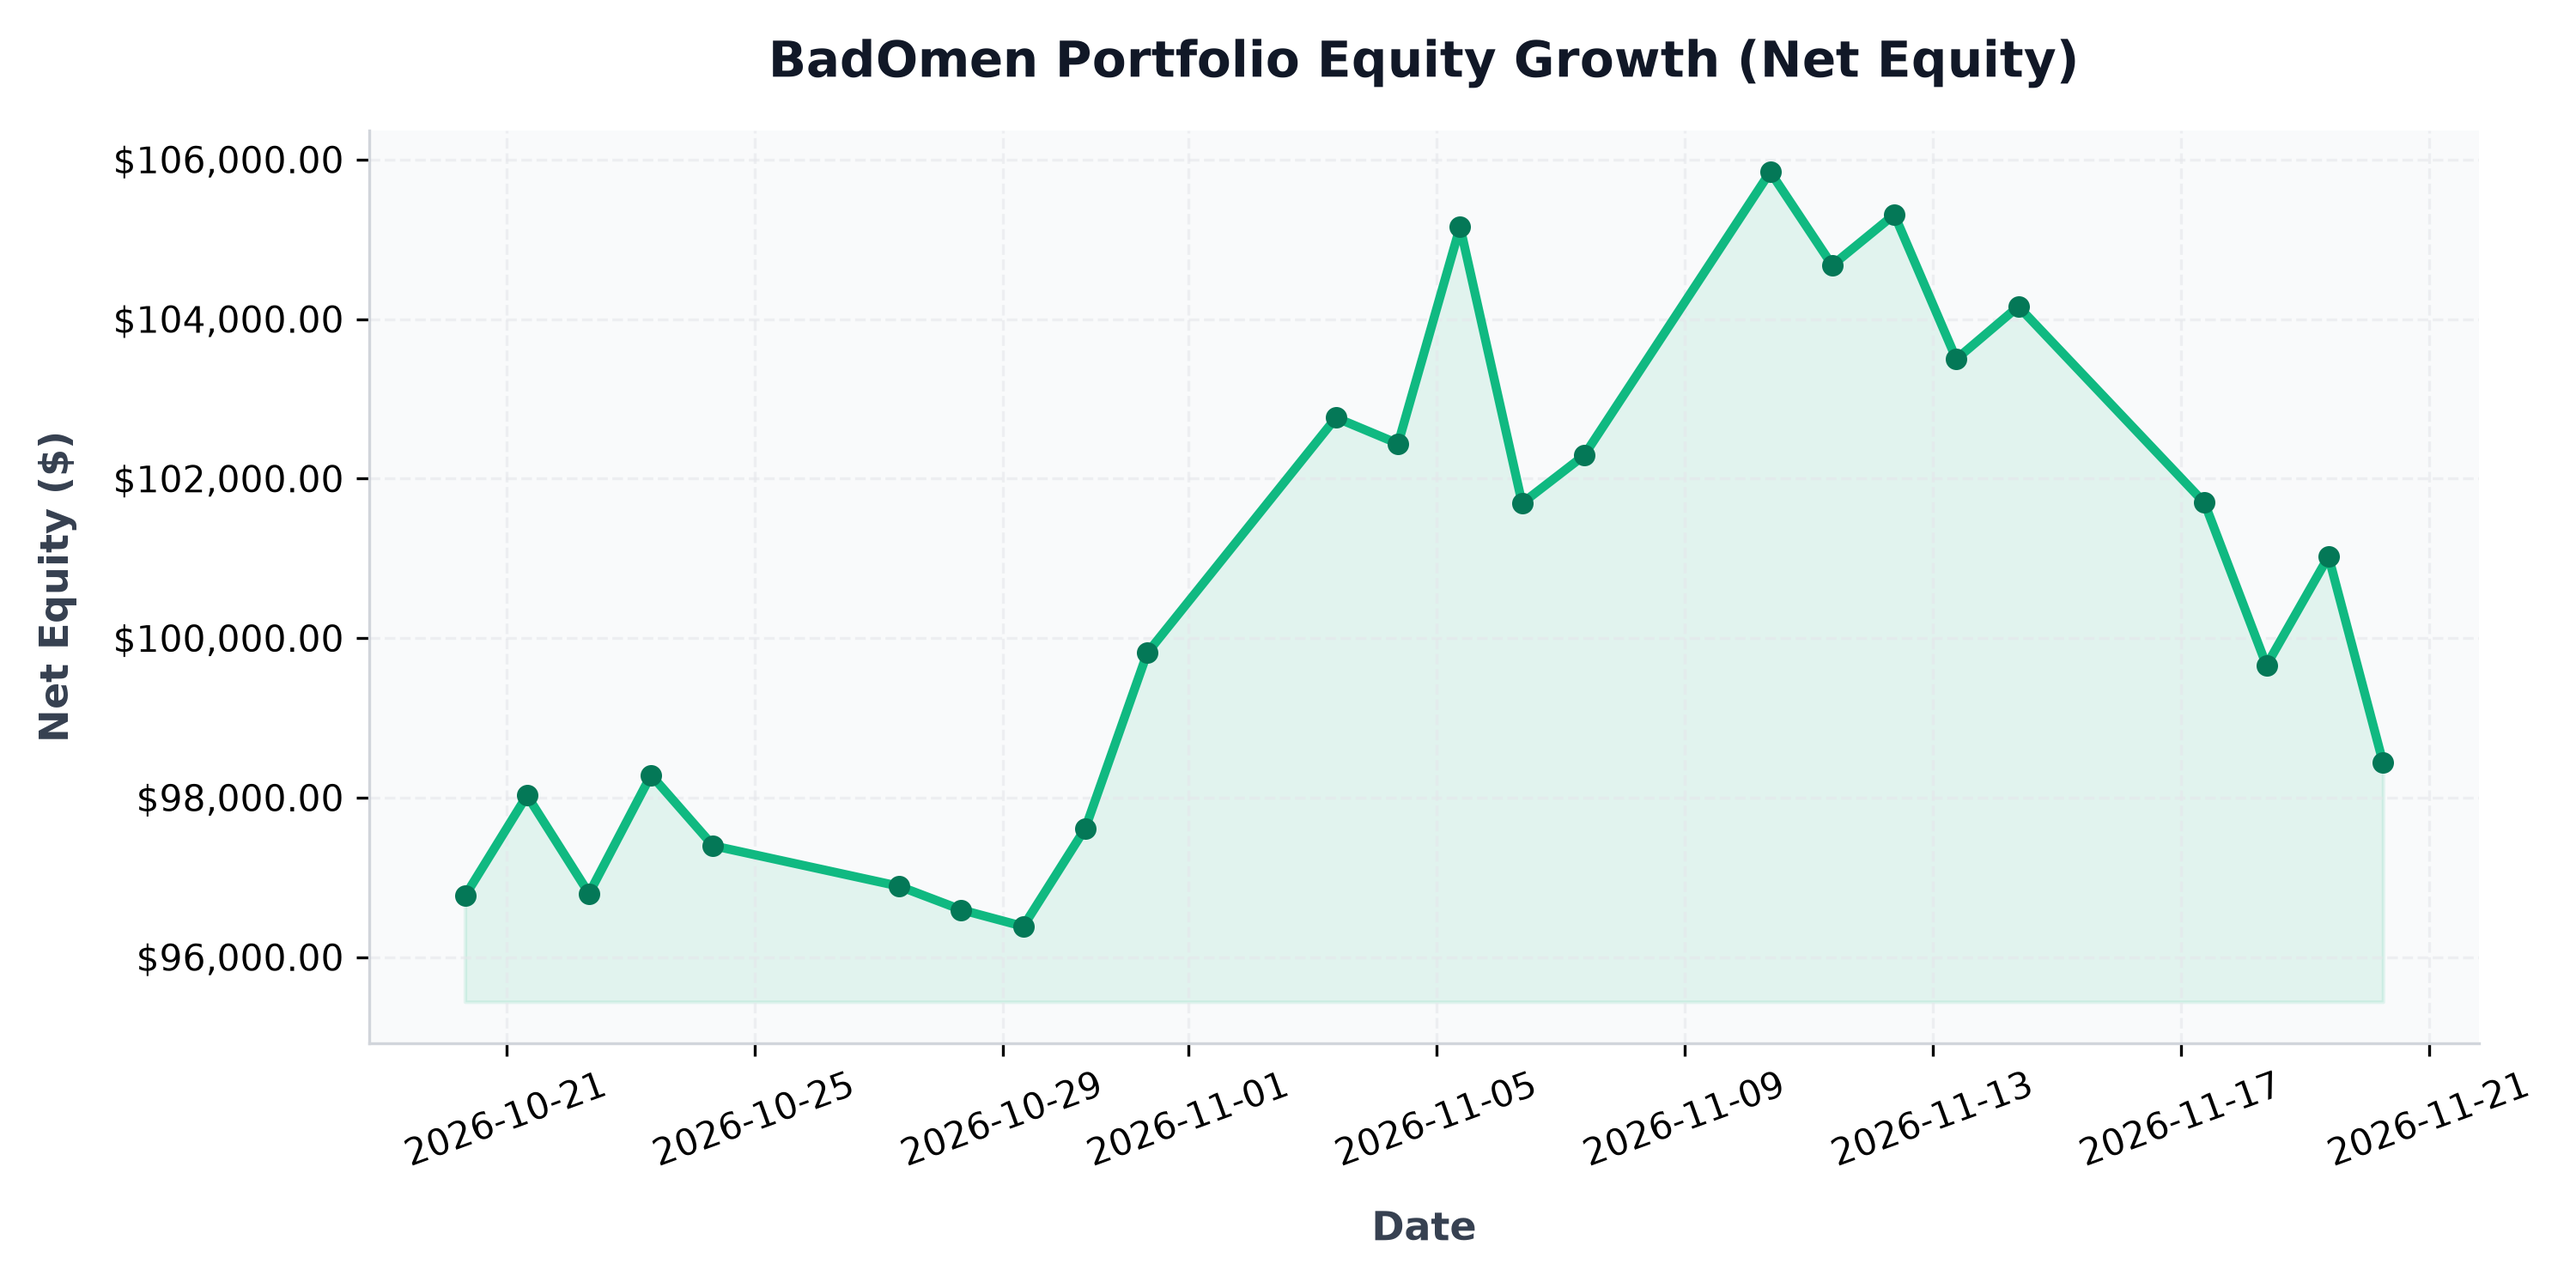
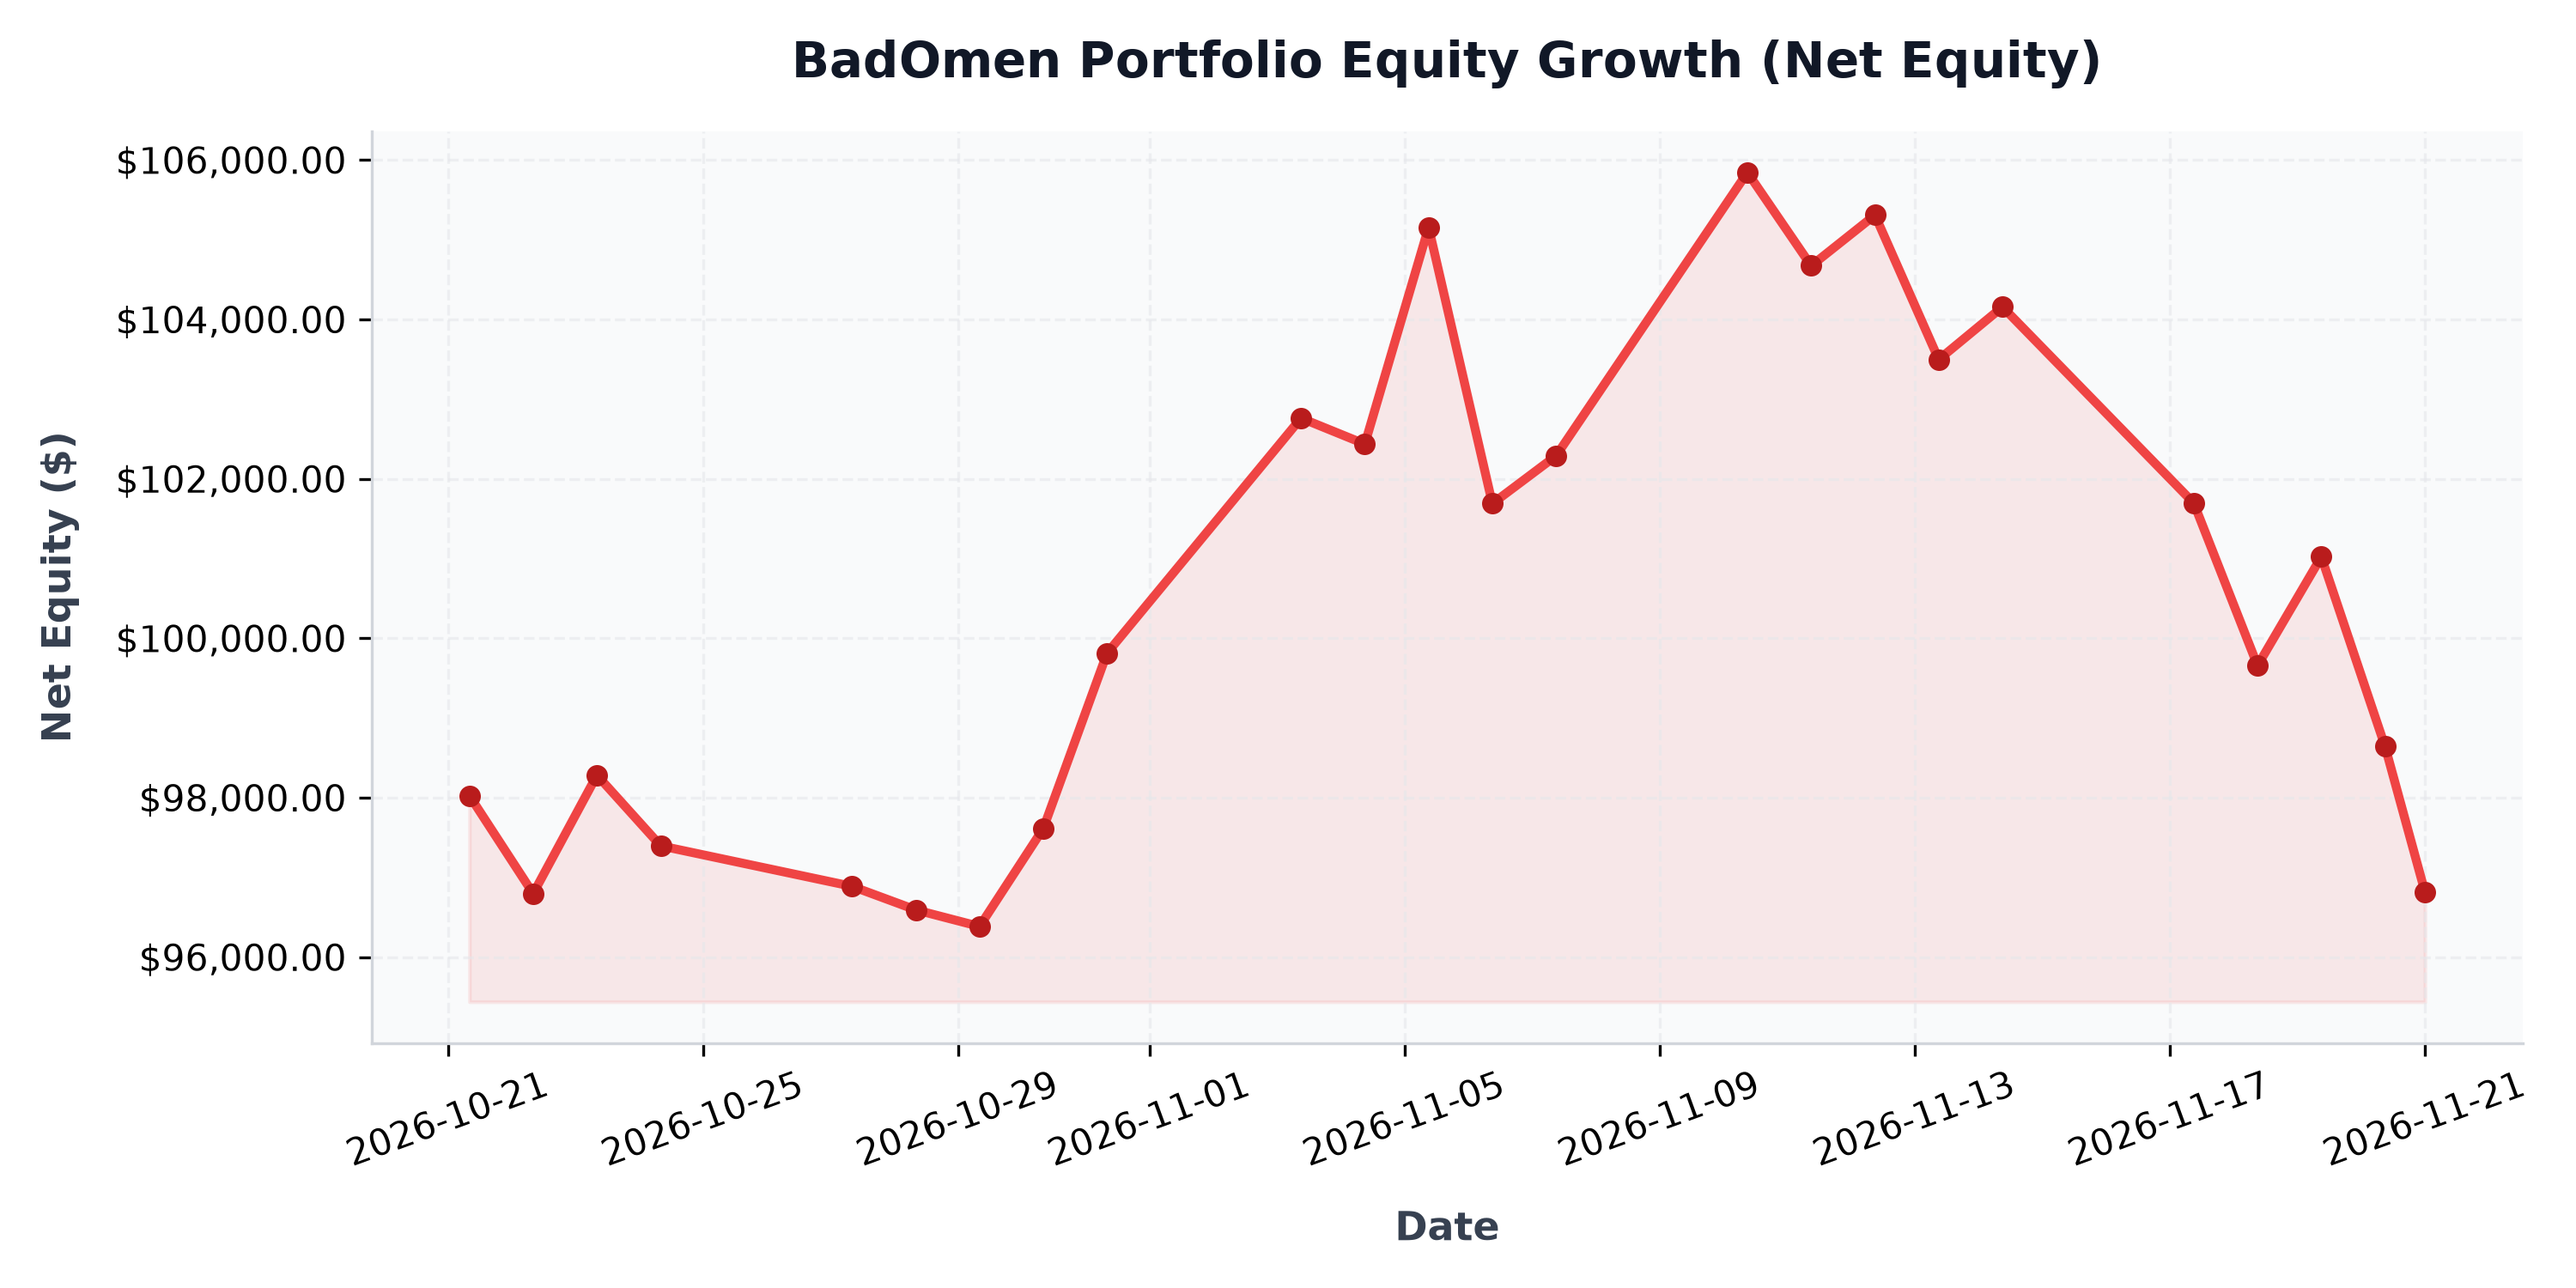
auto: daily portfolio status update - 2026-11-21 00:00:15

diff --git a/src/content/posts/portfolio-performance.md b/src/content/posts/portfolio-performance.md
@@ -1,6 +1,6 @@
 ---
 title: "BadOmen Algorithmic Portfolio Performance & PnL Report"
-pubDatetime: 2026-11-20T06:05:12.482355+08:00
+pubDatetime: 2026-11-21T00:00:15.514154+08:00
 description: "Live performance metrics, active holdings, and historic equity curve for the BadOmen automated paper trading portfolio."
 featured: true
 draft: false
@@ -16,11 +16,11 @@ Welcome to the live performance dashboard for **BadOmen**, our automated algorit
 ## 📊 Portfolio Summary
 | Performance Metric | Value | description |
 | :--- | :--- | :--- |
-| **Net Portfolio Equity** | **$98,440.25** | Total current liquidation value of cash and stock holdings |
-| **Total Unrealized P&L** | 🔴 **$-866.65** (-0.87%) | Total return of current open holdings |
-| **Cash Balance** | $58,003.59 | Idle reserve currency available for limit orders |
-| **Buying Power** | $325,069.05 | Margin-backed buying power for entry allocations |
-| **Report Updated** | `2026-11-20 06:05:12 (SGT)` | Timestamp of daily execution and sync run |
+| **Net Portfolio Equity** | **$96,818.51** | Total current liquidation value of cash and stock holdings |
+| **Total Unrealized P&L** | 🔴 **$-2,297.81** (-2.32%) | Total return of current open holdings |
+| **Cash Balance** | $24,218.11 | Idle reserve currency available for limit orders |
+| **Buying Power** | $285,134.61 | Margin-backed buying power for entry allocations |
+| **Report Updated** | `2026-11-21 00:00:15 (SGT)` | Timestamp of daily execution and sync run |
 
 ## 📈 Net Equity Growth Curve
 The chart below illustrates the historical performance of the account starting from our baseline capital funding of $100,000.00.
@@ -35,23 +35,27 @@ The chart below illustrates the exposure of our currently held active positions 
 ## 💼 Current Position Holdings
 | Ticker | Industry | Shares Owned | Average Entry Cost | Current Price | Unrealized P&L | Return (%) |
 | :--- | :--- | :--- | :--- | :--- | :--- | :--- |
-| **AN** | Auto & Truck Dealerships | 5 | $188.51 | $176.05 | 🔴 $-62.29 | -6.61% |
-| **AVGO** | Semiconductors | 1 | $385.71 | $348.66 | 🔴 $-37.05 | -9.61% |
-| **BIRK** | Footwear & Accessories | 407 | $37.32 | $34.00 | 🔴 $-1,350.31 | -8.89% |
-| **BLBD** | Farm & Heavy Construction Machinery | 103 | $64.45 | $56.82 | 🔴 $-786.34 | -11.85% |
-| **CELH** | Beverages - Non-Alcoholic | 15 | $29.71 | $30.50 | 🟢 +$11.81 | +2.65% |
-| **CPRI** | Luxury Goods | 310 | $13.93 | $18.50 | 🟢 +$1,416.99 | +32.82% |
-| **DUOL** | Software - Application | 10 | $129.49 | $148.58 | 🟢 +$190.89 | +14.74% |
-| **GDS** | Information Technology Services | 14 | $32.77 | $14.76 | 🔴 $-252.14 | -54.96% |
-| **GPI** | Auto & Truck Dealerships | 1 | $316.15 | $259.03 | 🔴 $-57.12 | -18.07% |
-| **ITRI** | Scientific & Technical Instruments | 12 | $81.80 | $97.51 | 🟢 +$188.52 | +19.20% |
-| **LRCX** | Semiconductor Equipment & Materials | 32 | $205.75 | $203.65 | 🔴 $-67.12 | -1.02% |
-| **NESR** | Oil & Gas Equipment & Services | 16 | $28.74 | $19.58 | 🔴 $-146.56 | -31.87% |
-| **NU** | Banks - Regional | 26 | $11.60 | $11.77 | 🟢 +$4.46 | +1.48% |
-| **PATH** | Software - Infrastructure | 18 | $10.25 | $11.20 | 🟢 +$17.10 | +9.27% |
-| **PYPL** | Credit Services | 8 | $56.05 | $56.08 | 🟢 +$0.24 | +0.05% |
-| **SMCI** | Computer Hardware | 10 | $29.25 | $23.75 | 🔴 $-55.00 | -18.80% |
-| **WEN** | Restaurants | 257 | $8.02 | $8.48 | 🟢 +$117.26 | +5.69% |
+| **AN** | Auto & Truck Dealerships | 5 | $188.51 | $178.71 | 🔴 $-48.99 | -5.20% |
+| **AVGO** | Semiconductors | 1 | $385.71 | $315.60 | 🔴 $-70.11 | -18.18% |
+| **BIRK** | Footwear & Accessories | 407 | $37.32 | $34.05 | 🔴 $-1,329.96 | -8.76% |
+| **BLBD** | Farm & Heavy Construction Machinery | 103 | $62.88 | $56.49 | 🔴 $-657.90 | -10.16% |
+| **CELH** | Beverages - Non-Alcoholic | 15 | $29.71 | $29.75 | 🟢 +$0.63 | +0.14% |
+| **CPRI** | Luxury Goods | 310 | $13.78 | $18.25 | 🟢 +$1,385.70 | +32.44% |
+| **DUOL** | Software - Application | 10 | $129.49 | $145.15 | 🟢 +$156.59 | +12.09% |
+| **GDS** | Information Technology Services | 14 | $32.77 | $13.79 | 🔴 $-265.72 | -57.92% |
+| **GPI** | Auto & Truck Dealerships | 1 | $316.15 | $263.38 | 🔴 $-52.77 | -16.69% |
+| **ITRI** | Scientific & Technical Instruments | 12 | $81.80 | $97.93 | 🟢 +$193.56 | +19.72% |
+| **LRCX** | Semiconductor Equipment & Materials | 32 | $205.59 | $187.61 | 🔴 $-575.26 | -8.74% |
+| **MRVL** | Semiconductors | 75 | $131.18 | $126.00 | 🔴 $-388.86 | -3.95% |
+| **NESR** | Oil & Gas Equipment & Services | 16 | $28.74 | $18.40 | 🔴 $-165.44 | -35.98% |
+| **NU** | Banks - Regional | 26 | $11.60 | $11.54 | 🔴 $-1.52 | -0.51% |
+| **NVDA** | Semiconductors | 90 | $140.29 | $137.10 | 🔴 $-286.79 | -2.27% |
+| **ON** | Semiconductors | 100 | $63.55 | $62.41 | 🔴 $-113.70 | -1.79% |
+| **ORCL** | Software - Infrastructure | 46 | $107.95 | $104.46 | 🔴 $-160.54 | -3.23% |
+| **PATH** | Software - Infrastructure | 18 | $10.25 | $11.24 | 🟢 +$17.82 | +9.66% |
+| **PYPL** | Credit Services | 8 | $56.05 | $55.17 | 🔴 $-7.04 | -1.57% |
+| **SMCI** | Computer Hardware | 10 | $29.25 | $22.46 | 🔴 $-67.90 | -23.21% |
+| **WEN** | Restaurants | 257 | $8.02 | $8.57 | 🟢 +$140.39 | +6.81% |
 
 ## 🔴 Recent Realized Trades
 | Ticker | Shares Sold | Entry Price | Exit Price | Strategy Trigger | Realized Return | Exit Date |
